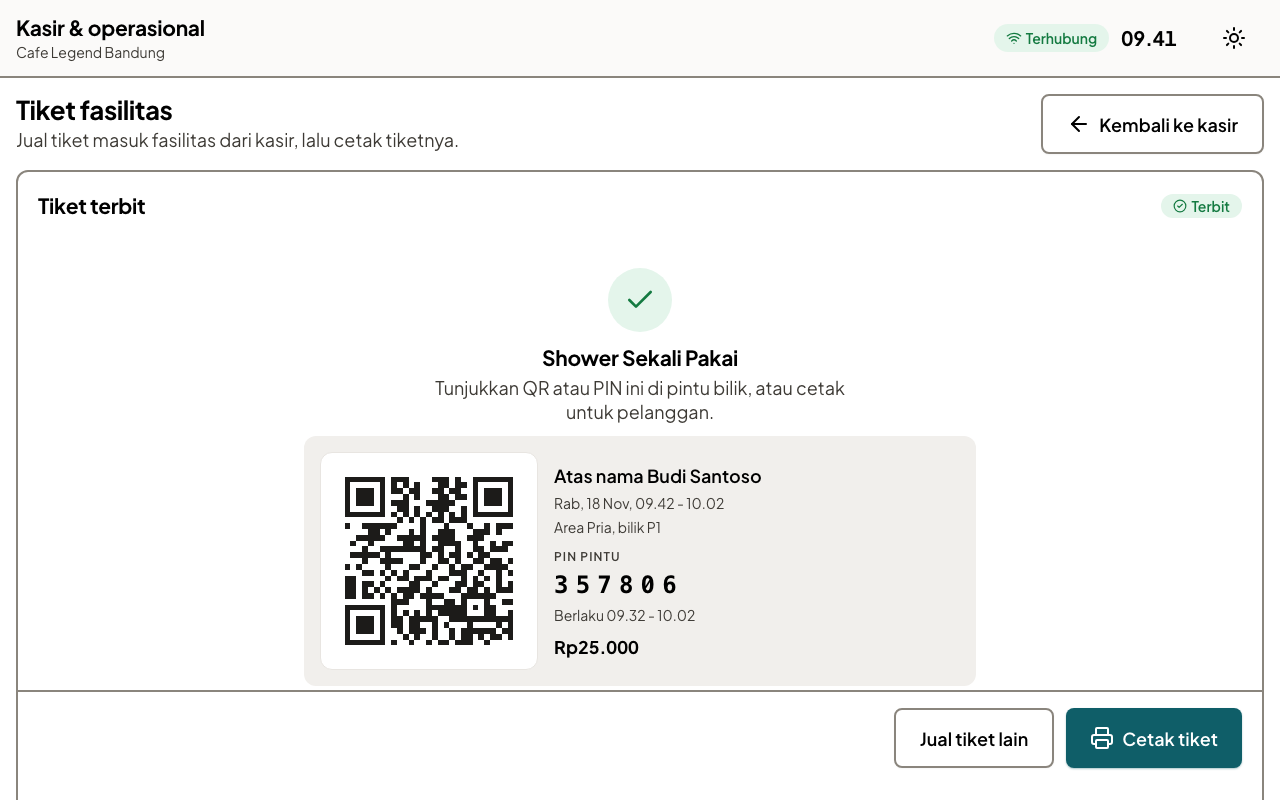
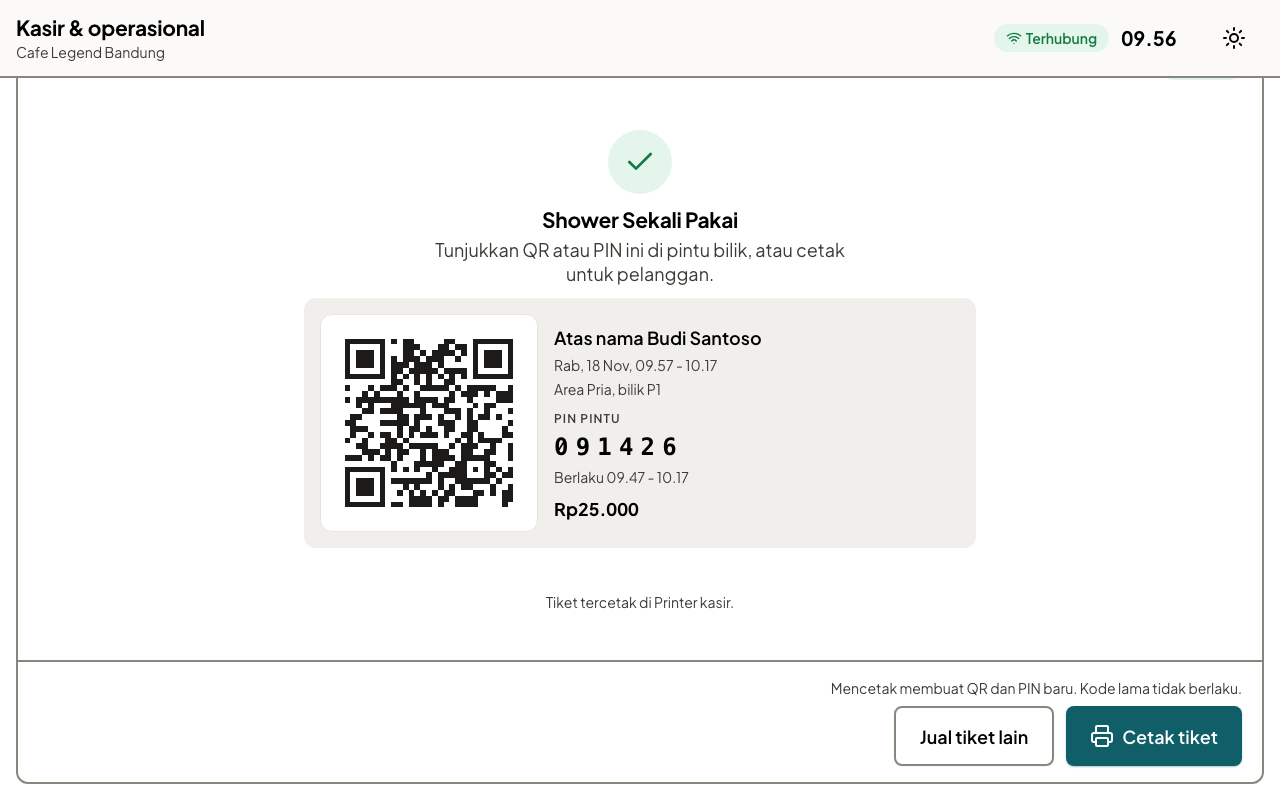
fix(pos): 1046 UI audit fixes (paid ticket card states, single primary action, print hint by the button, scrolled evidence shots)

diff --git a/e2e/legend-1046-pos-tiket.mock.spec.ts b/e2e/legend-1046-pos-tiket.mock.spec.ts
@@ -77,11 +77,50 @@ async function setLightTheme(page: Page): Promise<void> {
   await page.addInitScript(() => localStorage.setItem("legend-theme", "light"));
 }
 
+/**
+ * Scrolls the app shell's scroll container (and the window) to the end, so the
+ * evidence shot shows PIN, price and print status like the approved
+ * pos936-tiket-terbit-light-*.png (scrolled to the end). No-op when it fits.
+ */
+async function scrollToEnd(page: Page): Promise<void> {
+  // The area frame scrolls an inner `overflow-y-auto` box, not the window:
+  // scroll every scrollable box to its end, like the approved 936 shots.
+  const remaining = () =>
+    page.evaluate(() =>
+      Array.from(document.querySelectorAll<HTMLElement>("*"))
+        .filter((el) => {
+          const overflow = getComputedStyle(el).overflowY;
+          return (
+            (overflow === "auto" || overflow === "scroll") &&
+            el.scrollHeight > el.clientHeight
+          );
+        })
+        .reduce(
+          (max, el) =>
+            Math.max(
+              max,
+              Math.abs(el.scrollHeight - el.clientHeight - el.scrollTop),
+            ),
+          0,
+        ),
+    );
+  await page.evaluate(() => {
+    for (const el of Array.from(document.querySelectorAll<HTMLElement>("*"))) {
+      const overflow = getComputedStyle(el).overflowY;
+      if (overflow === "auto" || overflow === "scroll")
+        el.scrollTop = el.scrollHeight;
+    }
+    window.scrollTo(0, document.documentElement.scrollHeight);
+  });
+  await expect.poll(remaining).toBeLessThanOrEqual(1);
+}
+
 /** Evidence screenshot; hides the mock support-access banner (as legend-mjmm). */
 async function shot(page: Page, name: string): Promise<void> {
   await page.addStyleTag({
     content: '[data-slot="support-session-bar"]{display:none !important}',
   });
+  await scrollToEnd(page);
   await captureScreenshot(page, `legend-1046/${name}.png`, {
     fullPage: false,
   });
@@ -363,6 +402,11 @@ test.describe("360 px", () => {
     });
     expect(overflow.page).toBeLessThanOrEqual(1);
     expect(overflow.main).toBeLessThanOrEqual(1);
+    // Print so the evidence also shows the print status under the ticket.
+    await page.getByRole("button", { name: /^Cetak (tiket|ulang)/ }).click();
+    await expect(
+      page.locator('[data-slot="ticket-print-status"]'),
+    ).toContainText(/(tercetak|dicetak( ulang)?) di|tidak tersedia/i);
     await shot(page, "pos-tiket-terbit-light-360");
   });
 });

diff --git a/apps/web/src/features/ws04-pos-kasir/components/ticket/issued-ticket.tsx b/apps/web/src/features/ws04-pos-kasir/components/ticket/issued-ticket.tsx
@@ -70,24 +70,32 @@ export function IssuedTicket({
           </StatusPill>
         }
         footer={
-          <div className="flex w-full flex-col-reverse gap-3 sm:w-auto sm:flex-row">
-            <Button asChild variant="outline" className="w-full sm:w-auto">
-              <Link to="/pos/tiket">
-                {t("posKasirTicket.issued.sellAnother")}
-              </Link>
-            </Button>
-            <Button
-              type="button"
-              className="w-full sm:w-auto"
-              disabled={reissuing}
-              aria-busy={reissuing}
-              onClick={onReissue}
+          <div className="grid w-full gap-2 sm:w-auto sm:justify-items-end">
+            <p
+              data-slot="ticket-print-hint"
+              className="text-sm text-muted-foreground"
             >
-              <Printer aria-hidden="true" />
-              {reissuing
-                ? t("posKasirTicket.issued.printing")
-                : t("posKasirTicket.issued.print")}
-            </Button>
+              {t("posKasirTicket.issued.printHint")}
+            </p>
+            <div className="flex w-full flex-col-reverse gap-3 sm:w-auto sm:flex-row">
+              <Button asChild variant="outline" className="w-full sm:w-auto">
+                <Link to="/pos/tiket">
+                  {t("posKasirTicket.issued.sellAnother")}
+                </Link>
+              </Button>
+              <Button
+                type="button"
+                className="w-full sm:w-auto"
+                disabled={reissuing}
+                aria-busy={reissuing}
+                onClick={onReissue}
+              >
+                <Printer aria-hidden="true" />
+                {reissuing
+                  ? t("posKasirTicket.issued.printing")
+                  : t("posKasirTicket.issued.print")}
+              </Button>
+            </div>
           </div>
         }
       >
@@ -135,9 +143,6 @@ export function IssuedTicket({
               <Money amount={line.priceIdr} className="mt-1 font-bold" />
             </div>
           </div>
-          <p className="max-w-2xl text-sm text-muted-foreground">
-            {t("posKasirTicket.issued.printHint")}
-          </p>
           {/* Always in the DOM so a screen reader announces the text that arrives. */}
           <p
             data-slot="ticket-rotated-note"

diff --git a/apps/web/src/features/ws04-pos-kasir/components/payment/paid-ticket-card.tsx b/apps/web/src/features/ws04-pos-kasir/components/payment/paid-ticket-card.tsx
@@ -2,18 +2,45 @@ import { Link } from "@tanstack/react-router";
 import { Ticket } from "lucide-react";
 import { useT } from "@/components/i18n";
 import { Button } from "@/components/ui/button";
+import { Skeleton } from "@/components/ui/skeleton";
 import { useOrderTickets } from "../../ticket/hooks";
+import { TicketError } from "../ticket/ticket-error";
 
 // A paid bill that carried facility tickets: one small card per ticket that is
 // ready to issue. The list comes from the server; the link carries only the
-// order and ticket ids, never the credential. Quiet while loading, on error,
-// or when the bill has no ticket.
+// order and ticket ids, never the credential. A skeleton holds the card's
+// height while loading, a failed load says so with a retry, and the card is
+// absent only when the bill has no ticket to issue.
 export function PaidTicketCard({ orderId }: { orderId: string }) {
   const t = useT();
   const tickets = useOrderTickets(orderId);
   const ready = (tickets.data ?? []).filter(
     (line) => line.lineStatus === "issued",
   );
+  if (tickets.isPending) {
+    return (
+      <div
+        role="status"
+        aria-busy="true"
+        data-slot="paid-ticket-card"
+        className="w-full max-w-2xl"
+      >
+        <span className="sr-only">{t("posKasirTicket.step.loading")}</span>
+        <Skeleton className="h-24 w-full rounded-container" />
+      </div>
+    );
+  }
+  if (tickets.isError) {
+    return (
+      <div data-slot="paid-ticket-card" className="w-full max-w-2xl text-left">
+        <TicketError
+          error={tickets.error}
+          title={t("posKasirTicket.step.errorTitle")}
+          onRetry={() => void tickets.refetch()}
+        />
+      </div>
+    );
+  }
   if (ready.length === 0) return null;
 
   return (

diff --git a/apps/web/src/features/ws04-pos-kasir/components/payment/success-panel.tsx b/apps/web/src/features/ws04-pos-kasir/components/payment/success-panel.tsx
@@ -6,6 +6,7 @@ import { Button } from "@/components/ui/button";
 import { Money } from "@/components/ui/money";
 import { Notice, PosPanel, StateBlock, StatusPill } from "../shared";
 import { usePaymentSession, usePrintReceipt } from "../../hooks";
+import { useOrderTickets } from "../../ticket/hooks";
 import { confirmedAllocations } from "./payment-helpers";
 import { PaidTicketCard } from "./paid-ticket-card";
 import type { PaymentPanelProps } from "./panel-types";
@@ -29,6 +30,12 @@ export function SuccessPanel({ orderId }: PaymentPanelProps) {
   const navigate = useNavigate();
   const { bill, cash, receiptNo } = usePaymentSession(orderId);
   const print = usePrintReceipt();
+  // Same query as the ticket card (shared cache): with a ticket ready, issuing
+  // it is the one primary action and the footer print button steps back.
+  const tickets = useOrderTickets(orderId);
+  const hasIssuedTicket = (tickets.data ?? []).some(
+    (line) => line.lineStatus === "issued",
+  );
   if (!bill) return null;
 
   const confirmed = confirmedAllocations(bill);
@@ -55,6 +62,7 @@ export function SuccessPanel({ orderId }: PaymentPanelProps) {
           </Button>
           <Button
             type="button"
+            variant={hasIssuedTicket ? "outline" : "default"}
             disabled={print.isPending}
             aria-busy={print.isPending}
             onClick={() =>

diff --git a/packages/shared/src/i18n/messages/pos-kasir-ticket.ts b/packages/shared/src/i18n/messages/pos-kasir-ticket.ts
@@ -101,7 +101,7 @@ export const posKasirTicketMessages = {
   },
   step: {
     title: "Terbitkan tiket",
-    loading: "Memuat tiket...",
+    loading: "Memuat tiket…",
     errorTitle: "Tiket belum bisa dimuat",
     notFoundTitle: "Tiket tidak ditemukan",
     notFoundHint: "Buka lagi dari layar bayar, atau jual tiket baru.",
@@ -109,7 +109,7 @@ export const posKasirTicketMessages = {
     readyHint:
       "QR dan PIN tampil sekali di layar ini. Menerbitkan lagi membuat kode baru.",
     issue: "Terbitkan tiket",
-    issuing: "Menerbitkan...",
+    issuing: "Menerbitkan…",
     pendingTitle: "Tagihan belum lunas",
     pendingHint: "Tiket terbit setelah tagihan dibayar lunas.",
     payLink: "Ke layar bayar",
@@ -117,7 +117,6 @@ export const posKasirTicketMessages = {
     badHint:
       "Tiket sudah dibatalkan atau dikembalikan. Jual tiket baru bila perlu.",
     sellNew: "Jual tiket baru",
-    amount: "Harga",
     issueErrorTitle: "Tiket belum terbit",
     issueErrorHint:
       "Kode sebelumnya mungkin sudah tidak berlaku. Terbitkan ulang.",

diff --git a/apps/web/src/features/ws04-pos-kasir/components/ticket/ticket-issue-step.tsx b/apps/web/src/features/ws04-pos-kasir/components/ticket/ticket-issue-step.tsx
@@ -93,7 +93,7 @@ export function TicketIssueStep({
         }
       >
         <div data-slot="ticket-issue-step" className="grid gap-4">
-          {tickets.isLoading ? (
+          {tickets.isPending ? (
             <div role="status" aria-busy="true" className="grid gap-3">
               <span className="sr-only">
                 {t("posKasirTicket.step.loading")}

diff --git a/apps/web/test/pos-payment-936-ticket.test.ts b/apps/web/test/pos-payment-936-ticket.test.ts
@@ -397,7 +397,7 @@ describe("issue step: the cashier issues the ticket explicitly", () => {
   );
 
   test("loading shows a status, not an empty card", () => {
-    state.tickets = ticketsQuery({ isLoading: true });
+    state.tickets = ticketsQuery({ isPending: true });
     expect(visibleText(step())).toMatch(/memuat tiket/i);
   });
 
